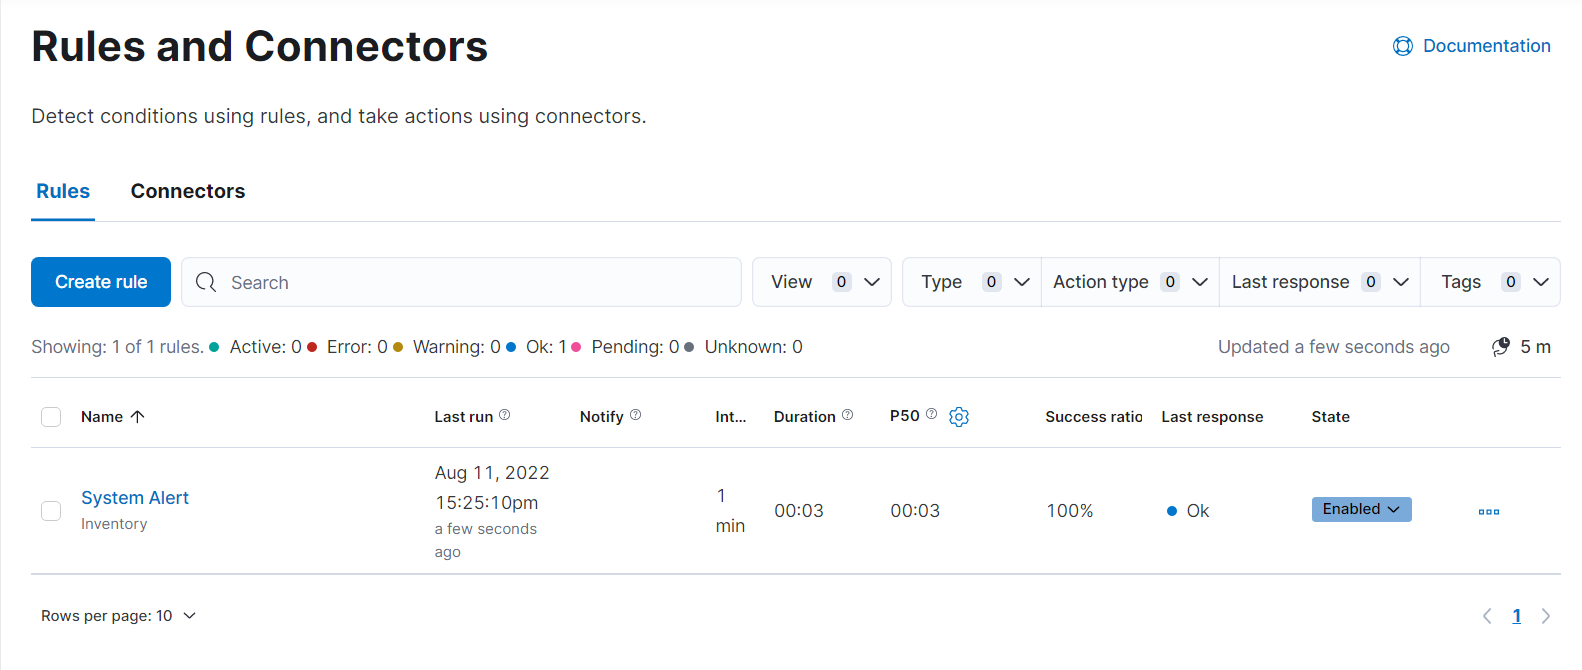
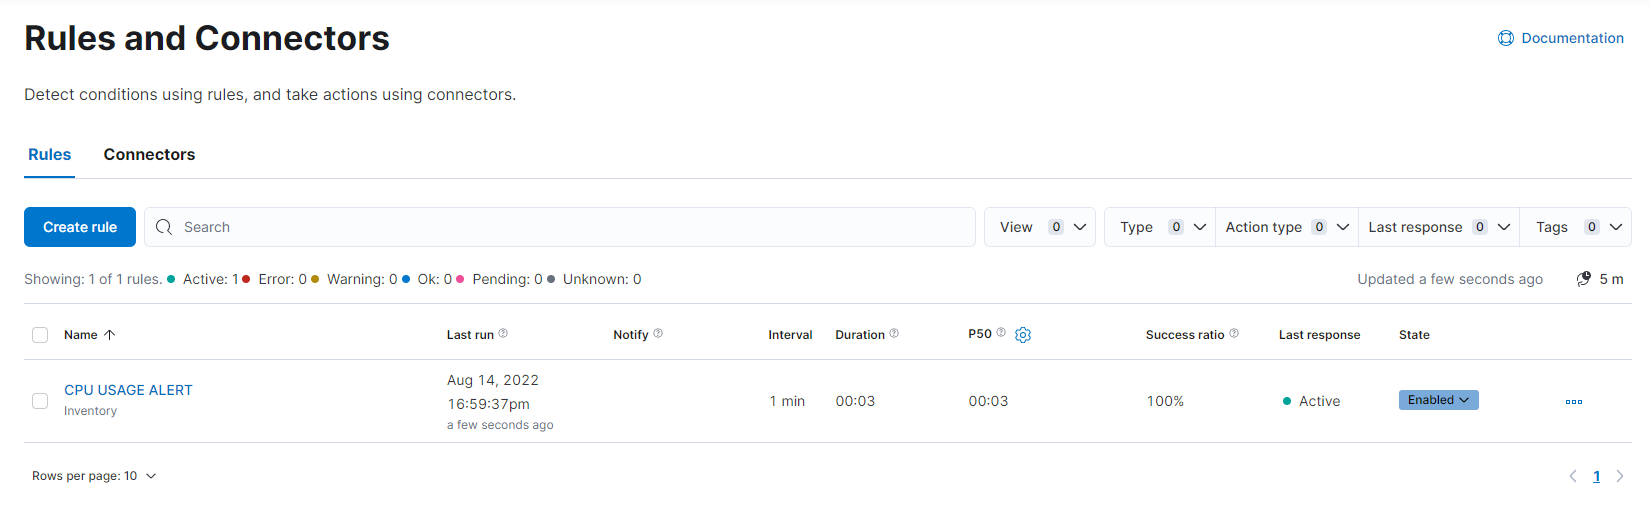
update readme

diff --git a/README.md b/README.md
@@ -58,17 +58,62 @@ Selanjutnya kita membuat Alert Rules. Silahkan ke tab Rules. Lalu tekan tombol `
 
 ![Image](./images/5.png)
 
+Pada bagian pertama ini, kita akan membuat nama dari Alert Rules yang mau kita definisikan. Sebagai Contoh, kita akan membuat Alert Rules `CPU USAGE`, maka saya definisikan untuk nama Alert Rules nya adalah `CPU USAGE ALERT`. Lalu untuk pengisian `Tags`, `Check Every`, & `Notify` bisa diisi sesuai kebutuhan.
+
 ![Image](./images/6.png)
 
-![Image](./images/7.png)
+Selanjutnya kita akan memilih `Rule Type`, dimana `Rule Type` ini berisi berbagai jenis dari semua service / use case yang ada di ELK Stack
 
 ![Image](./images/8.png)
 
+Klik tombol `Filter by use case` untuk memfilter jenis alert rules yang kita inginkan. Sebagai contoh, kita akan membuat alert rules untuk memonitoring CPU Usage. Maka kita akan memilih `Infrastructure` untuk filter nya.
+
 ![Image](./images/9.png)
+
+Setelah melakukan filter, maka akan muncul dua jenis metrik yang bisa kita gunakan untuk membuat alert rules. Kita akan memilih `Inventory` untuk membuat alert rules ini.
+
 ![Image](./images/10.png)
+
+Setelah memilih jenis `use case` selanjutnya kita akan membuat sebuah condition sesuai dengan kebutuhan. Sebagai contoh, kita membuat rules dengan kondisi `CPU Usage` lebih besar atau sama dengan 10%.
+
 ![Image](./images/11.png)
+
+Sesudah membuat condition, kita akan membuat action yang akan dijalankan ketika alert rules ini terjadi. Kita akan memilih `Connector` yang sudah kita buat sebelumnya. Pilih connector `Index`.
+
 ![Image](./images/12.png)
+
+Atur `RUN When` sesuai kebutuhan dan Pilih `Index Connector` dengan `Connector` yang sudah kita buat sebelumnya
+
 ![Image](./images/13.png)
+
+Pada `Document to Index`, masukan script dibawah ini:
+
+```
+{
+    "Timestamp": "{{context.timestamp}}",
+    "Alert_ID": "{{alert.id}}",
+    "Condition": "{{alert.actionGroupName}}",
+    "value": "{{context.value}}",
+    "Reason": "{{context.reason}}"
+}
+```
+
+Script tersebut merupakan contoh sederhana. Kita bisa mengisi sesuai kebutuhan.
+
 ![Image](./images/14.png)
+
+Setelah selesai, klik tombol `Save` untuk menyimpan alert rules yang sudah kita buat. Maka akan muncul alert rules yang sudah kita buat.
+
 ![Image](./images/15.png)
+
+Gambar dibawah merupakan contoh alert rules yang sudah terjadi. Alert rules ini akan terjadi ketika CPU Usage lebih besar atau sama dengan 10%. Dan akan membuat sebuah data di index `ini-log-alert` yang sudah kita buat sebelumnya.
+
 ![Image](./images/16.png)
+
+## Integration to Telegram
+
+Untuk mengintegrasikan alert rules yang sudah kita buat dengan telegram, bisa langsung mengikuti dokumentasi dari [ES-MODULE-ALERT](https://github.com/nvlannasik/ES-MODULE-ALERT)
+
+## Authors
+
+- [Ahmad Naoval Annasik](https://github.com/nvlannasik)
